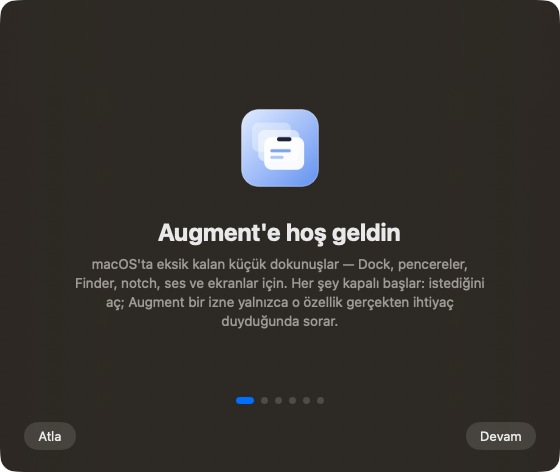
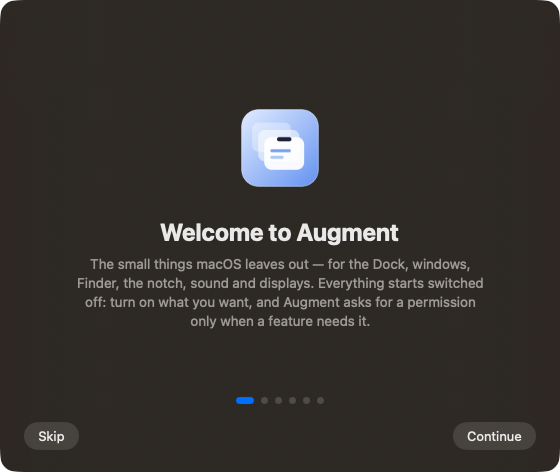
README: English screenshots on real glass; screenshot helpers

Changed region(s): [[0.1214, 0.4746, 0.8804, 0.7119], [0.7893, 0.8898, 0.9411, 0.9492], [0.0607, 0.8898, 0.1518, 0.9492]]

diff --git a/Augment/App/FuncTest.swift b/Augment/App/FuncTest.swift
@@ -205,6 +205,11 @@ enum FuncTest {
                 finish()
                 return
             }
+            if CommandLine.arguments.contains("--readme-shots") {
+                await captureReadmeQuickPanel()
+                finish()
+                return
+            }
             if CommandLine.arguments.contains("--finder-menu") {
                 await readFinderContextMenu()
                 finish()
@@ -690,6 +695,49 @@ enum FuncTest {
         return out.contains("Augment: keep awake")
     }
 
+    /// The quick panel on real glass, over a neutral gradient backdrop (so
+    /// nothing personal from the desktop shows through), for the README.
+    private static func captureReadmeQuickPanel() async {
+        guard let screen = NSScreen.main else { return }
+        let backdropFrame = CGRect(x: screen.frame.maxX - 900, y: screen.frame.maxY - 1100, width: 900, height: 1100)
+        let backdrop = NSWindow(contentRect: backdropFrame, styleMask: [.borderless], backing: .buffered, defer: false)
+        backdrop.level = NSWindow.Level(rawValue: NSWindow.Level.popUpMenu.rawValue - 1)
+        let gradient = NSImage(size: backdropFrame.size, flipped: false) { rect in
+            NSGradient(colors: [NSColor(calibratedRed: 0.20, green: 0.33, blue: 0.62, alpha: 1),
+                                NSColor(calibratedRed: 0.55, green: 0.36, blue: 0.70, alpha: 1),
+                                NSColor(calibratedRed: 0.93, green: 0.55, blue: 0.47, alpha: 1)])!
+                .draw(in: rect, angle: -60)
+            return true
+        }
+        let imageView = NSImageView(image: gradient)
+        imageView.imageScaling = .scaleAxesIndependently
+        backdrop.contentView = imageView
+        backdrop.orderFrontRegardless()
+
+        let anchor = NSStatusBar.system.statusItem(withLength: NSStatusItem.squareLength)
+        anchor.button?.image = NSImage(systemSymbolName: "square", accessibilityDescription: nil)
+        try? await Task.sleep(nanoseconds: 800_000_000)
+        SystemControlsService.shared.outputDeviceNameOverride = "MacBook Pro Speakers"
+        QuickPanelController.shared.toggle(below: anchor.button)
+        try? await Task.sleep(nanoseconds: 4_000_000_000) // let stats fill in
+        let dir = AppGroup.sharedDirectory.deletingLastPathComponent().appendingPathComponent("shots")
+        if let panel = NSApp.windows.first(where: { $0.isVisible && $0.level == .popUpMenu }) {
+            let f = panel.frame.insetBy(dx: -36, dy: -36)
+            let topLeft = ScreenGeometry.convertToCG(CGPoint(x: f.minX, y: f.maxY))
+            if let image = CGWindowListCreateImage(CGRect(origin: topLeft, size: f.size), .optionOnScreenBelowWindow,
+                                                   CGWindowID(0), [.bestResolution]) ?? nil,
+               let composite = CGWindowListCreateImage(CGRect(origin: topLeft, size: f.size), .optionOnScreenOnly, kCGNullWindowID, [.bestResolution]) {
+                _ = image
+                try? NSBitmapImageRep(cgImage: composite).representation(using: .png, properties: [:])?
+                    .write(to: dir.appendingPathComponent("readme-quick-panel.png"))
+                lines.append("INFO  captured readme quick panel \(composite.width)x\(composite.height)")
+            }
+        }
+        QuickPanelController.shared.close()
+        NSStatusBar.system.removeStatusItem(anchor)
+        backdrop.orderOut(nil)
+    }
+
     /// Renders the open notch into PNGs without touching the cursor or
     /// showing anything on screen — safe to run while the user works.
     private static func renderNotchOffscreen() async {
@@ -706,17 +754,26 @@ enum FuncTest {
             vm.clipboardHistoryEnabled = true
             vm.lowerTab = tab
             vm.battery = BatteryInfo.current()
-            vm.mediaInfo = playing ? MediaInfo(title: "Aşk Kokusu", artist: "Kenan Doğulu", appName: "Müzik",
+            vm.mediaInfo = playing ? MediaInfo(title: "Midnight City", artist: "M83", appName: "Music",
                                                appIcon: NSWorkspace.shared.icon(forFile: "/System/Applications/Music.app"),
                                                albumArt: nil, isPlaying: true, duration: 278, elapsedTime: 100,
                                                appBundleID: "com.apple.Music", isJSDisabled: false) : nil
             if name == "notch-render-files" {
+                // Neutral English sample files for screenshots.
                 let shots = AppGroup.sharedDirectory.deletingLastPathComponent().appendingPathComponent("shots")
-                vm.shelfItems = ["quick-panel-onscreen.png", "about.png", "general.png"]
-                    .map { shots.appendingPathComponent($0) }
-                    .filter { FileManager.default.fileExists(atPath: $0.path) }
-                    .map { ShelfItem(url: $0) } + [ShelfItem(url: URL(fileURLWithPath: "/System/Library/Fonts/Supplemental/Arial.ttf"))]
-                vm.nextMeeting = UpcomingEvent(id: "t", title: "Haftalık ürün toplantısı", start: Date().addingTimeInterval(4 * 60),
+                let samples = FileManager.default.temporaryDirectory.appendingPathComponent("AugmentSamples")
+                try? FileManager.default.createDirectory(at: samples, withIntermediateDirectories: true)
+                let pairs: [(String, URL)] = [
+                    ("Moodboard.png", shots.appendingPathComponent("tour-2.png")),
+                    ("Welcome.png", shots.appendingPathComponent("tour-0.png")),
+                    ("Typeface.ttf", URL(fileURLWithPath: "/System/Library/Fonts/Supplemental/Arial.ttf")),
+                ]
+                vm.shelfItems = pairs.compactMap { name, source in
+                    let dest = samples.appendingPathComponent(name)
+                    if !FileManager.default.fileExists(atPath: dest.path) { try? FileManager.default.copyItem(at: source, to: dest) }
+                    return FileManager.default.fileExists(atPath: dest.path) ? ShelfItem(url: dest) : nil
+                }
+                vm.nextMeeting = UpcomingEvent(id: "t", title: "Weekly product sync", start: Date().addingTimeInterval(4 * 60),
                                                end: Date().addingTimeInterval(34 * 60), color: .systemPurple,
                                                joinURL: URL(string: "https://meet.google.com/abc"))
                 vm.meetingIsAlert = true

diff --git a/Augment/Services/SystemControlsService.swift b/Augment/Services/SystemControlsService.swift
@@ -20,6 +20,8 @@ final class SystemControlsService: ObservableObject {
     @Published private(set) var canSetBrightness = false
     @Published private(set) var canSetVolume = false
     @Published private(set) var outputDeviceName = ""
+    /// Screenshot hook: shows this name instead of the (system-localised) device name.
+    var outputDeviceNameOverride: String? { didSet { if let o = outputDeviceNameOverride { outputDeviceName = o } } }
     @Published private(set) var isMicMuted = false
     @Published private(set) var hasMicrophone = false
 
@@ -49,7 +51,7 @@ final class SystemControlsService: ObservableObject {
         if let device = Self.defaultOutputDevice(), let value = Self.volume(of: device) {
             volume = Double(value)
             isMuted = Self.isMuted(device)
-            outputDeviceName = Self.name(of: device) ?? ""
+            outputDeviceName = outputDeviceNameOverride ?? Self.name(of: device) ?? ""
             canSetVolume = true
         } else {
             canSetVolume = false
